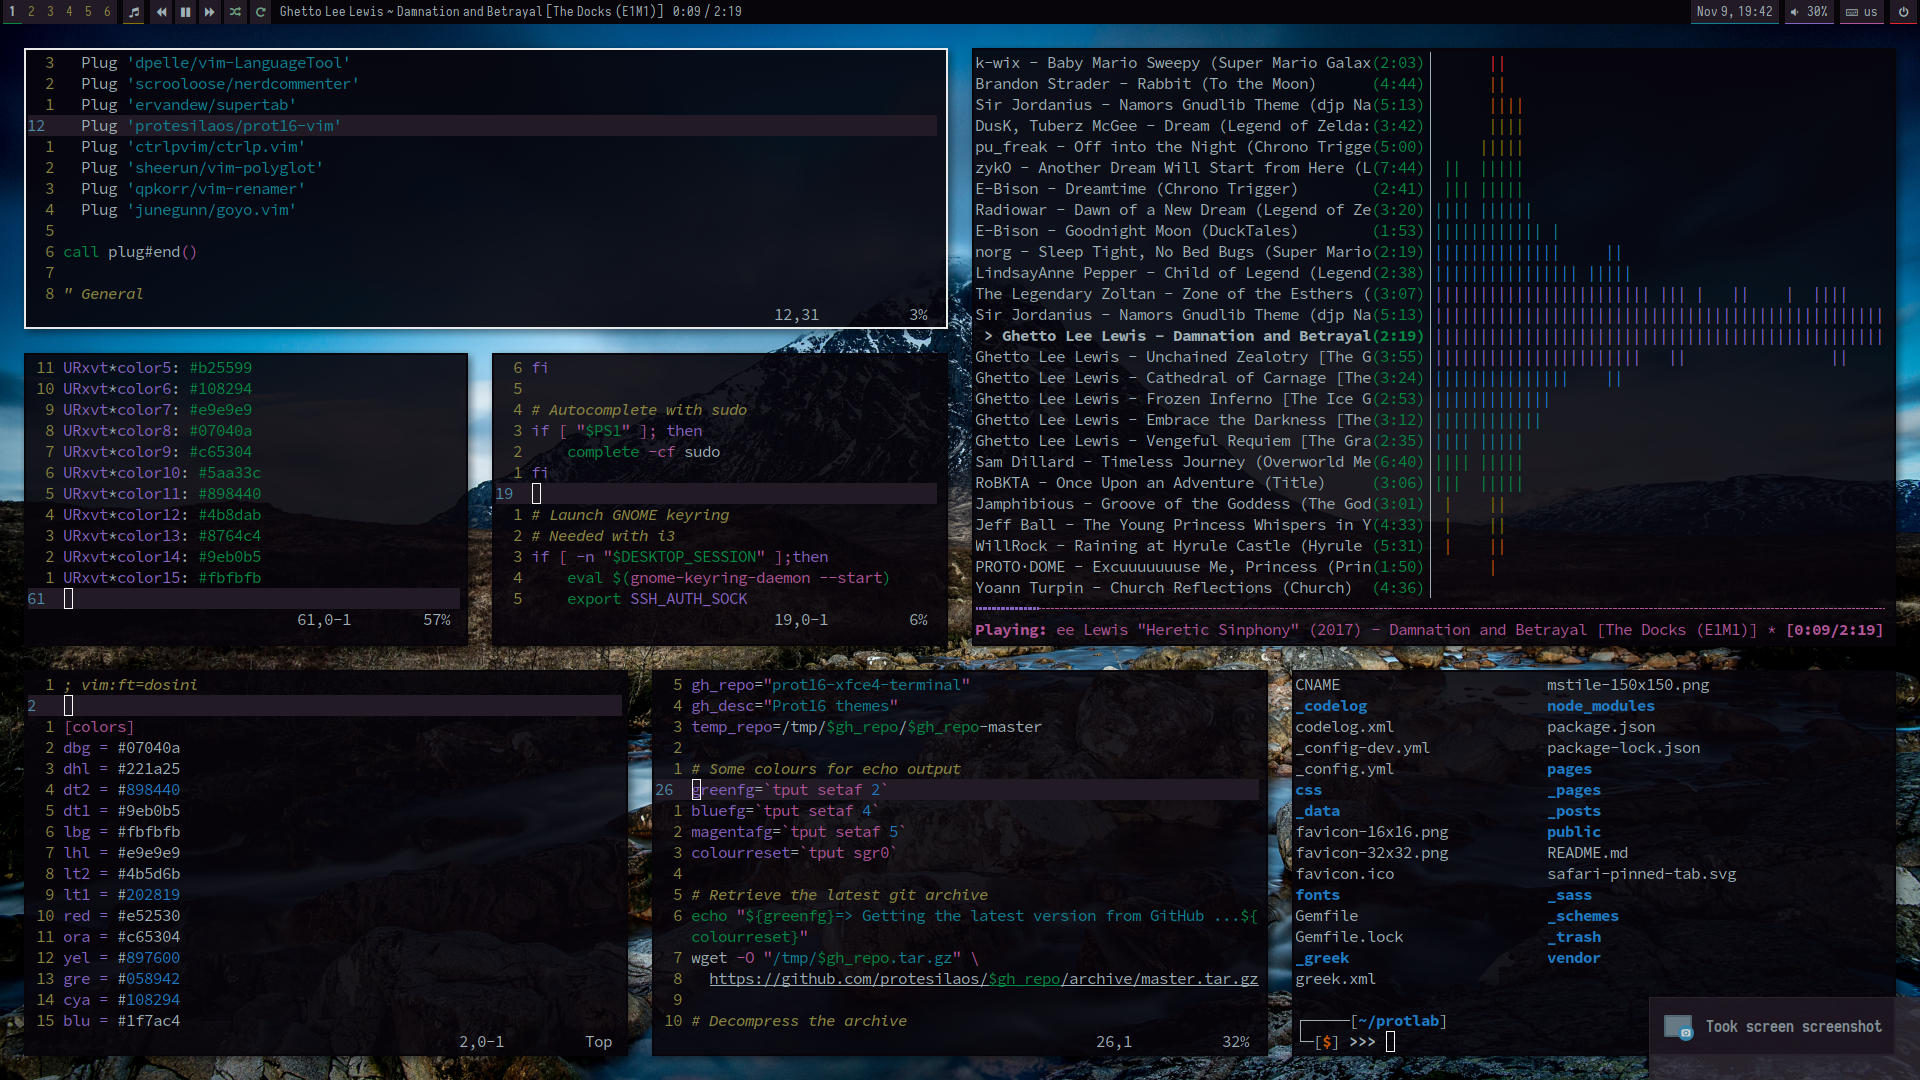
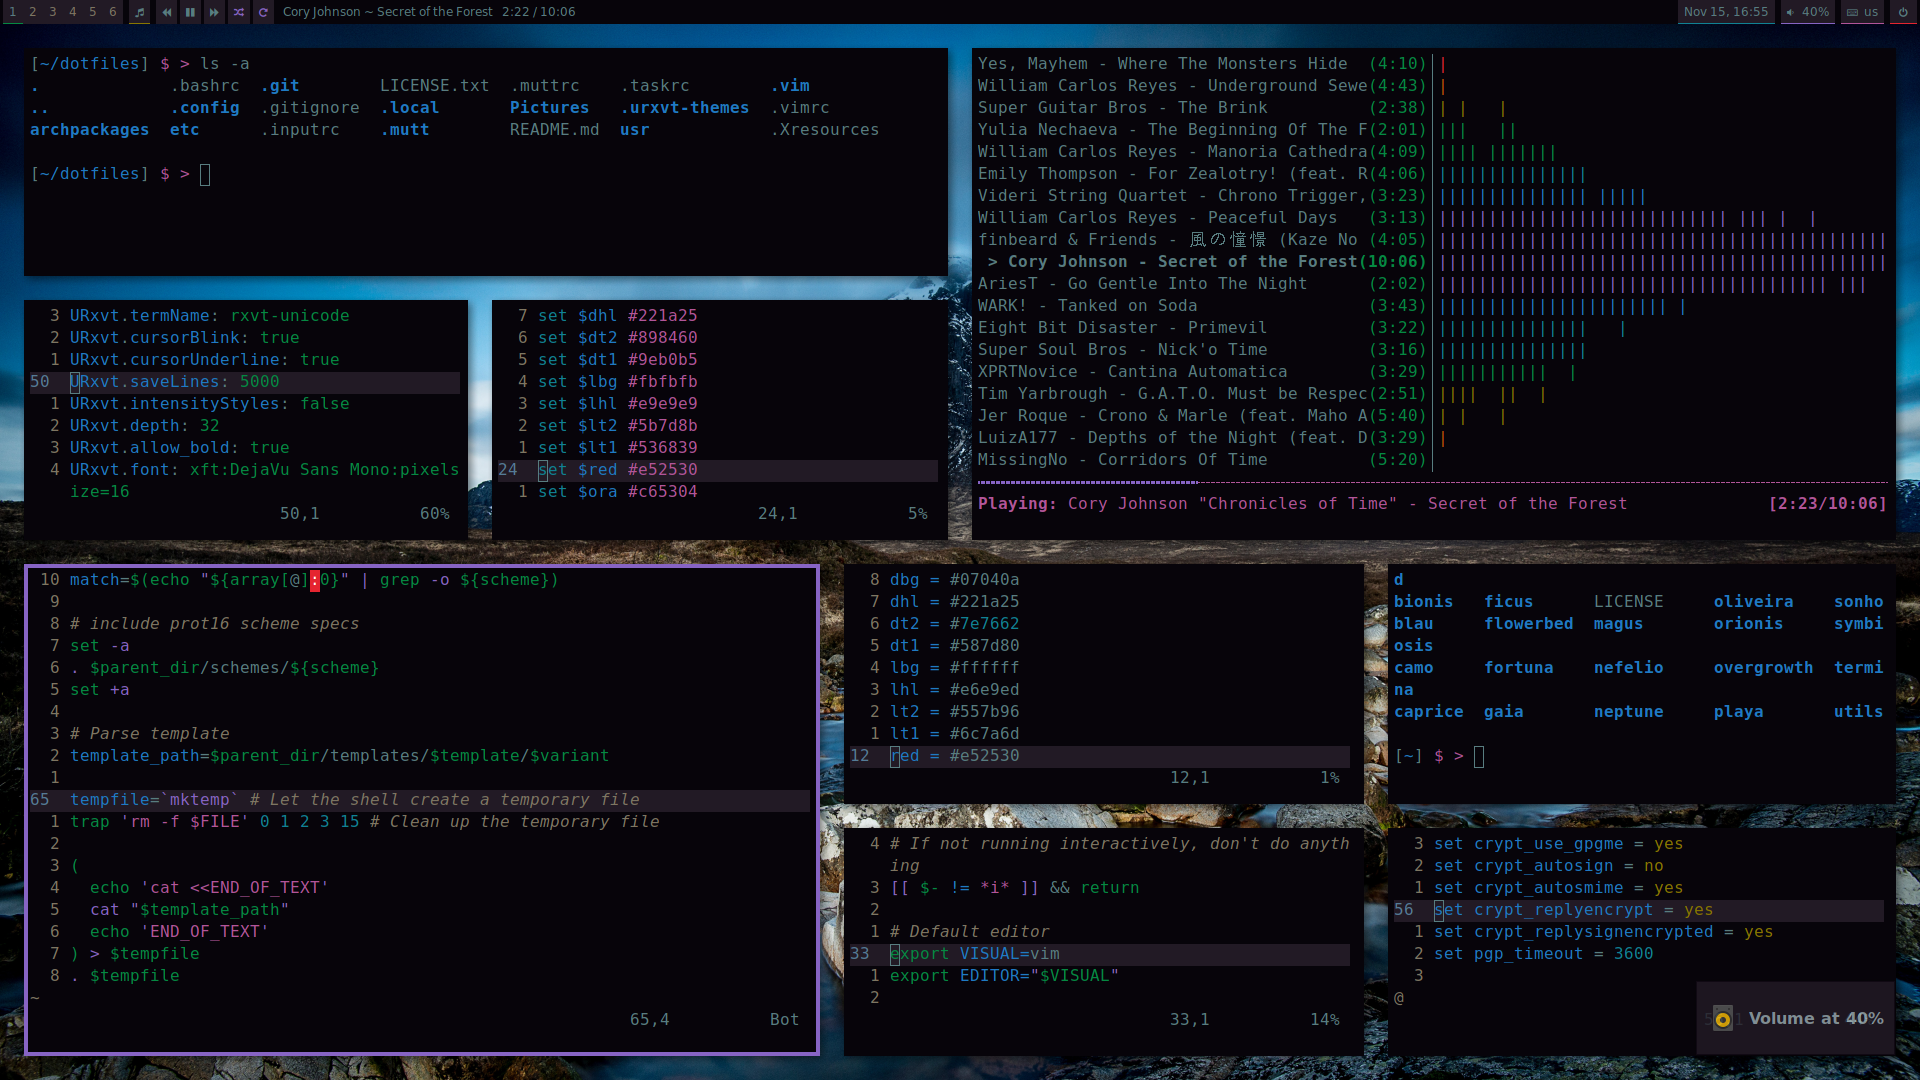
Update scrot and reference.

Changed region(s): [[0.0, 0.0, 1.0, 0.9778], [0.8438, 0.9167, 1.0, 1.0], [0.875, 0.0, 0.9688, 0.0306]]

diff --git a/README.md b/README.md
@@ -28,6 +28,8 @@
 
 ![i3 sample](https://raw.githubusercontent.com/protesilaos/dotfiles/master/Pictures/i3-scrot.png)
 
+'Fake busy' screenshot.
+
 ## License
 
 Unless otherwise noted, all code herein is distributed under the terms of the GNU General Public License v3.0. In cases where that cannot apply (e.g. a picture), the Creative Commons Attribution-ShareAlike 4.0 License shall be used instead.
